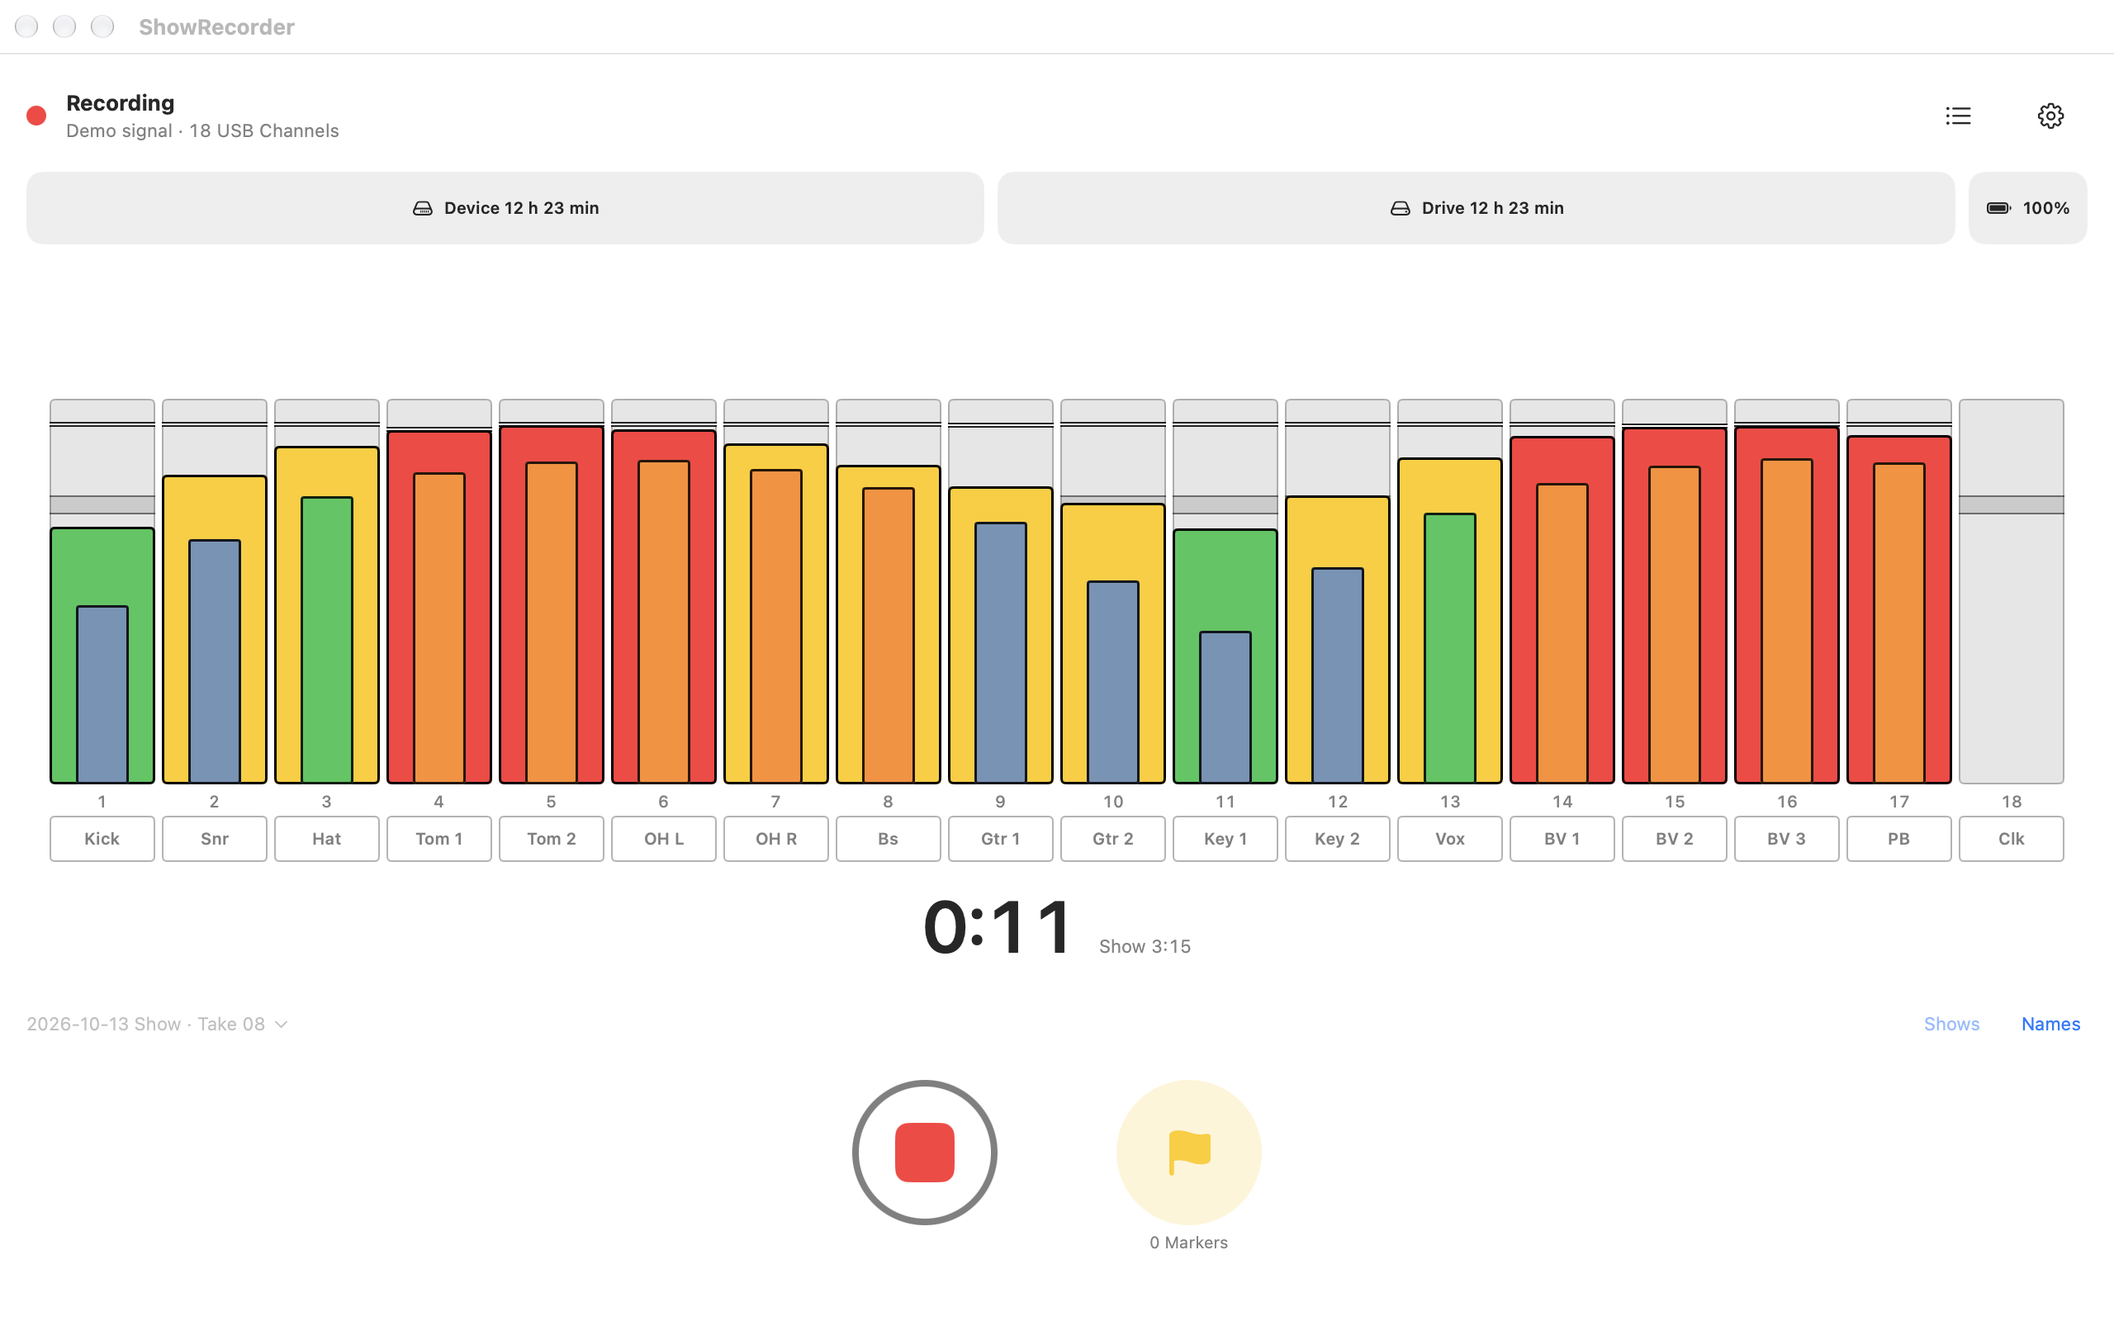
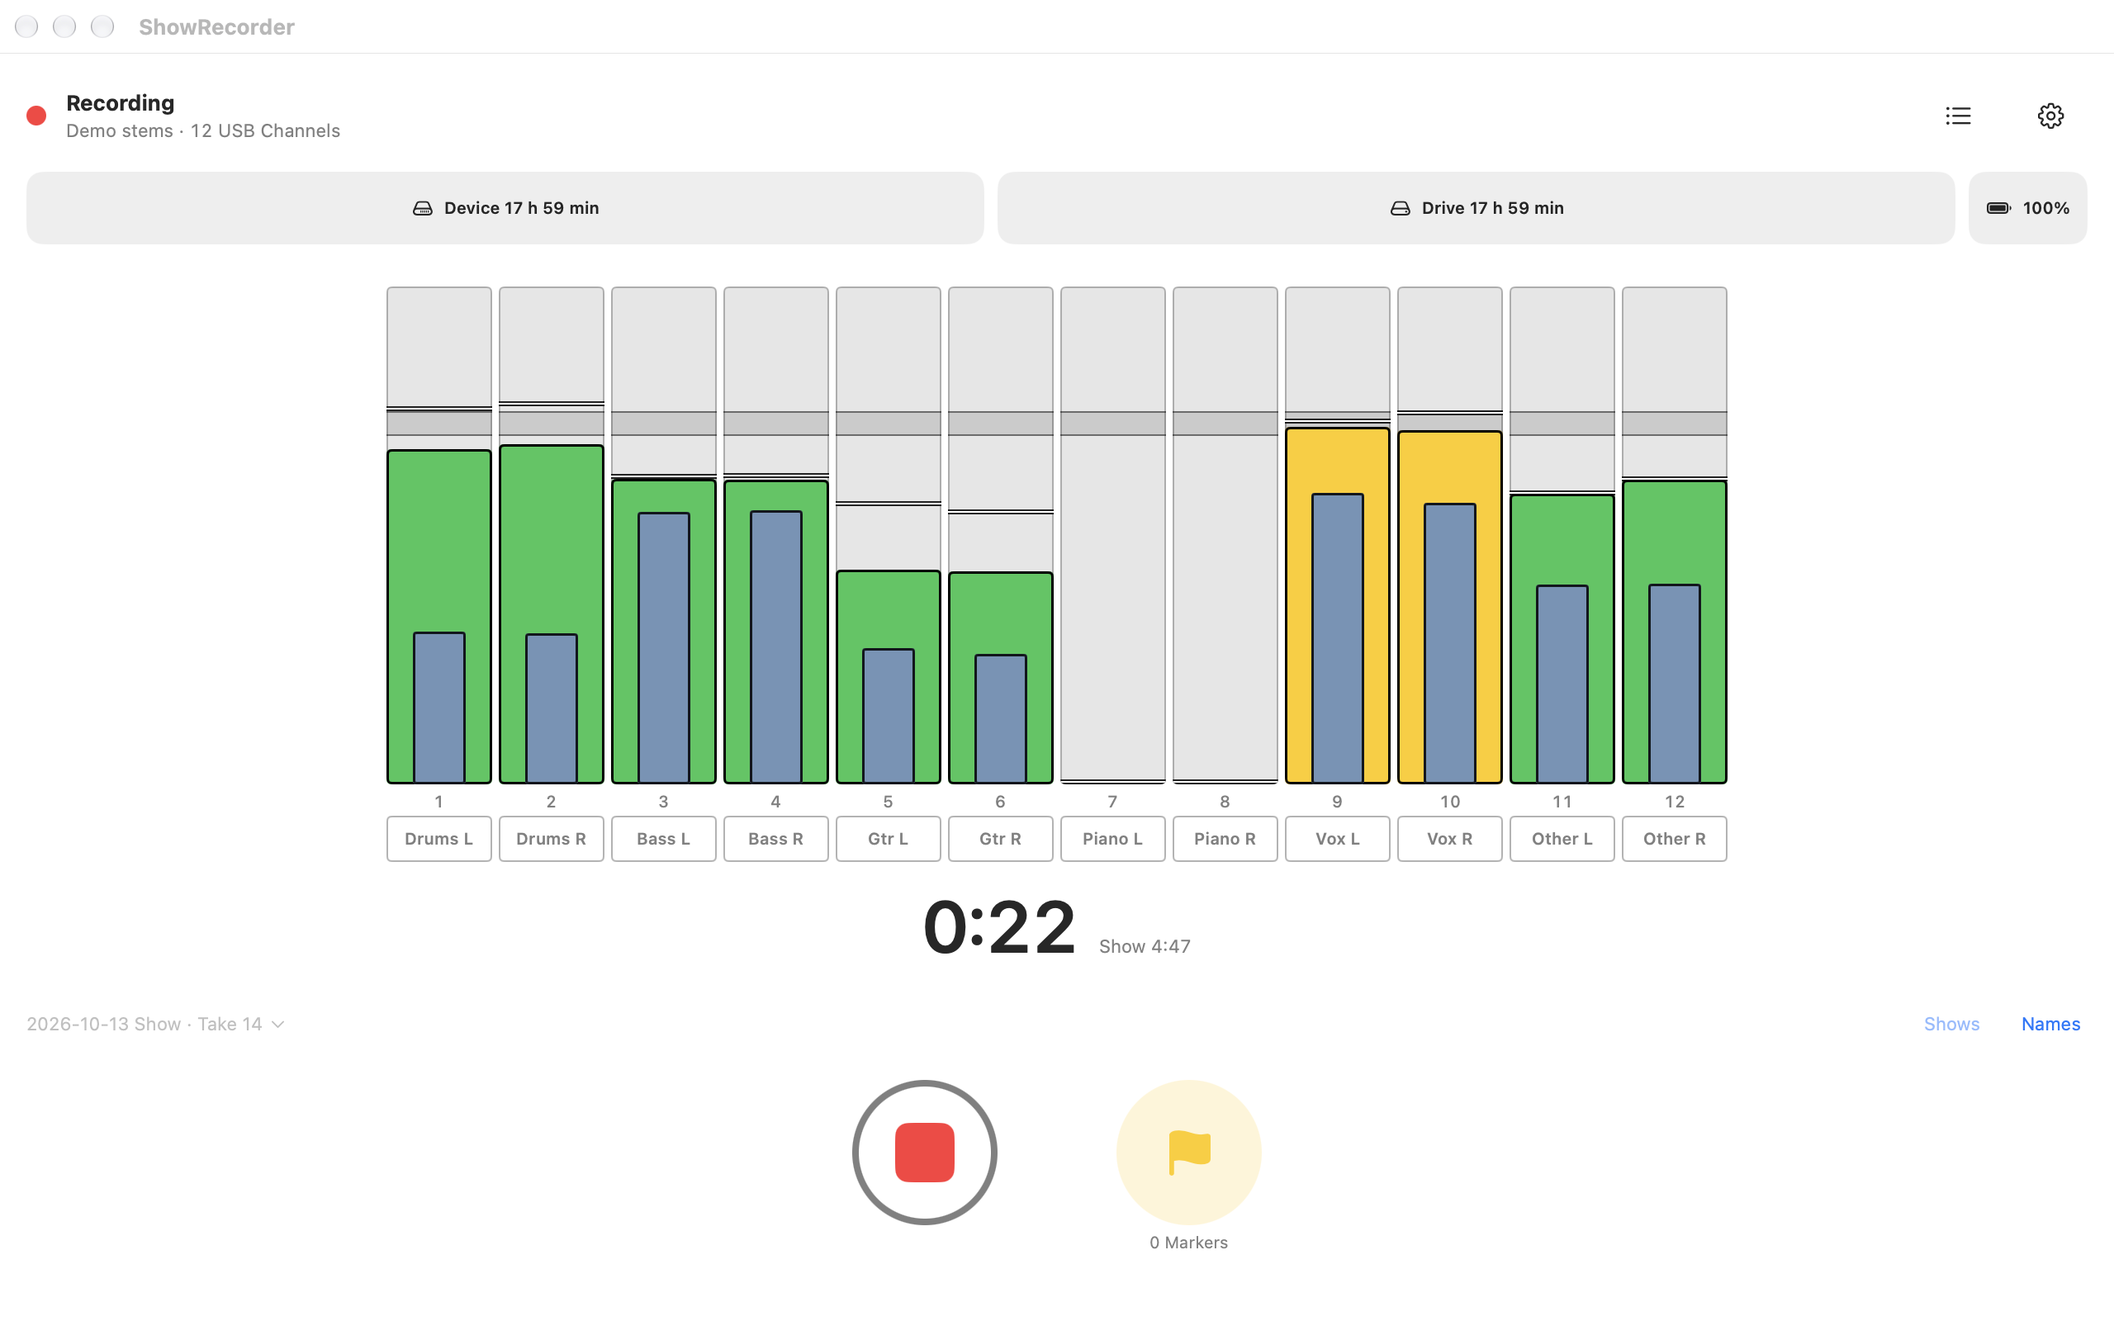
Mac App Store screenshots from a band's stems, 12 named channels (#374)
- -demoStems <folder> (Debug only, DemoStemsDevice): a folder of stems played as USB Channels, each
  stereo file on two, in a band's order and named from the file (StemDemoLayout, tested), seconds 25
  to 40 of the song resampled to 48 kHz and looped about 6 dB down, so the meters look like a mixer's.
  The audio is read from the folder given; none is in the repo.
- The five Mac shots taken again with Eric's stems: natural green and yellow levels, the piano pair
  idle, no empty alert band. Each was checked to show "Demo stems".
- -demoRecord records only on a demo input; -demoNames uses the stems' names; -demoCalm is gone.
- listing.md "Mac set": how to take them again.

Assisted-by: Claude Code:claude-opus-5-5
Claude-Session: https://claude.ai/code/session_01YSHtEHRvQvHpyXAjjbcmVq

diff --git a/App/DemoStemsDevice.swift b/App/DemoStemsDevice.swift
@@ -1,0 +1,105 @@
+#if DEBUG
+import AVFoundation
+import AudioIO
+import Foundation
+import Recording
+
+/// A folder of stems played as USB Channels, for screenshots (#374): `-demoStems <folder>`, Debug only. Each stereo
+/// file is two channels, in a band's order (`StemDemoLayout`), resampled to 48 kHz and looped, so the meters move like
+/// a real mixer's. The files are read from the folder given; none are part of the app.
+final class DemoStemsDevice: AudioIODevice, @unchecked Sendable {
+    /// The folder `-demoStems` names, if any.
+    static var folder: URL? {
+        let arguments = CommandLine.arguments
+        guard launchFlag("-demoStems"), let index = arguments.firstIndex(of: "-demoStems"), index + 1 < arguments.count else { return nil }
+        return URL(fileURLWithPath: arguments[index + 1], isDirectory: true)
+    }
+
+    /// The stems in the folder, in channel order; nil when there's no folder or no WAV in it.
+    static func layout(of folder: URL) -> StemDemoLayout? {
+        let files = ((try? FileManager.default.contentsOfDirectory(atPath: folder.path)) ?? [])
+            .filter { $0.lowercased().hasSuffix(".wav") }
+            .compactMap { name -> (String, Int)? in
+                guard let file = try? AVAudioFile(forReading: folder.appending(path: name)) else { return nil }
+                return (name, Int(file.processingFormat.channelCount))
+            }
+        return files.isEmpty ? nil : StemDemoLayout(files: files)
+    }
+
+    /// Mastered stems peak near full scale; a mixer's USB sends sit lower, so the meters show mostly green and yellow.
+    static let trim: Float = 0.5
+    /// Where in the song the loop starts (the intro leaves some stems silent), and how long it plays before it loops.
+    static let startSeconds = 25.0
+    static let seconds = 15.0
+
+    let name = "Demo stems"
+    let sampleRate = 48_000.0
+    let inputChannelCount: Int
+    var outputChannelCount: Int { inputChannelCount }
+
+    private let channels: [[Float]]
+    private let fake: FakeAudioDevice
+    private var task: Task<Void, Never>?
+
+    init(folder: URL, layout: StemDemoLayout) {
+        var channels: [[Float]] = []
+        for stem in layout.order {
+            channels += Self.read(folder.appending(path: stem.file), channels: stem.channels)
+        }
+        self.channels = channels
+        inputChannelCount = channels.count
+        fake = FakeAudioDevice(inputChannelCount: channels.count)
+    }
+
+    /// The file's channels at 48 kHz, trimmed, up to `seconds` long; silence when it can't be read.
+    private static func read(_ url: URL, channels count: Int) -> [[Float]] {
+        let frames = Int(48_000 * seconds)
+        let silence = Array(repeating: [Float](repeating: 0, count: 4_800), count: count)
+        guard let file = try? AVAudioFile(forReading: url),
+              let target = AVAudioFormat(standardFormatWithSampleRate: 48_000, channels: AVAudioChannelCount(count)),
+              let converter = AVAudioConverter(from: file.processingFormat, to: target),
+              let output = AVAudioPCMBuffer(pcmFormat: target, frameCapacity: AVAudioFrameCount(frames))
+        else { return silence }
+        file.framePosition = min(AVAudioFramePosition(startSeconds * file.processingFormat.sampleRate), max(file.length - 1, 0))
+        let input = AVAudioPCMBuffer(pcmFormat: file.processingFormat, frameCapacity: 8_192)!
+        var done = false
+        _ = converter.convert(to: output, error: nil) { _, status in
+            guard !done, (try? file.read(into: input)) != nil, input.frameLength > 0 else {
+                done = true
+                status.pointee = .endOfStream
+                return nil
+            }
+            status.pointee = .haveData
+            return input
+        }
+        guard let data = output.floatChannelData, output.frameLength > 0 else { return silence }
+        return (0..<count).map { channel in
+            Array(UnsafeBufferPointer(start: data[channel], count: Int(output.frameLength))).map { $0 * trim }
+        }
+    }
+
+    func start(input: @escaping AudioInputHandler) throws {
+        stop()
+        try fake.start(input: input)
+        let fake = fake
+        let channels = channels
+        task = Task.detached(priority: .userInitiated) {
+            let length = channels.first?.count ?? 0
+            guard length > 480 else { return }
+            var position = 0
+            while !Task.isCancelled {
+                if position + 480 > length { position = 0 }
+                fake.deliver(channels.map { Array($0[position..<(position + 480)]) })
+                position += 480
+                try? await Task.sleep(for: .milliseconds(10))
+            }
+        }
+    }
+
+    func stop() {
+        task?.cancel()
+        task = nil
+        fake.stop()
+    }
+}
+#endif

diff --git a/App/RecordScreen.swift b/App/RecordScreen.swift
@@ -976,6 +976,7 @@ final class RecordScreenModel {
         #endif
         // `-demoSignal` starts on the 18-channel demo signal, for screenshots and layout checks.
         if launchFlag("-demoSignal"), devices.contains(where: { $0.id == "demo" }) { selectedDeviceID = "demo" }
+        if launchFlag("-demoStems"), devices.contains(where: { $0.id == "demo-stems" }) { selectedDeviceID = "demo-stems" }
     }
 
     /// "2026-10-06 Show · Take 02", or a hint before the first Take.
@@ -1279,7 +1280,11 @@ final class RecordScreenModel {
         if launchFlag("-demoNames"), isScreenshotBuild {
             Task {
                 try? await Task.sleep(for: .seconds(1))
-                for (index, name) in Self.demoChannelNames.enumerated() { recorder.setChannelName(name, forChannel: index + 1) }
+                var names = Self.demoChannelNames
+                #if DEBUG
+                if let folder = DemoStemsDevice.folder, let layout = DemoStemsDevice.layout(of: folder) { names = layout.channelNames }
+                #endif
+                for (index, name) in names.enumerated() { recorder.setChannelName(name, forChannel: index + 1) }
             }
         }
         // `-demoRecord` starts a Take once Armed, for screenshots. With `-demoSignal` only on the Demo signal, never the
@@ -1289,7 +1294,7 @@ final class RecordScreenModel {
                 for _ in 0..<60 {
                     try? await Task.sleep(for: .milliseconds(500))
                     guard recorder.isArmed, !recorder.isRecording else { continue }
-                    if launchFlag("-demoSignal"), armedDevice?.id != "demo" { continue }
+                    if launchFlag("-demoSignal") || launchFlag("-demoStems"), armedDevice?.id.hasPrefix("demo") != true { continue }
                     record()
                     return
                 }
@@ -1531,6 +1536,15 @@ final class RecordScreenModel {
                 name: "Demo signal (\(DemoAudioDevice.channelCount) channels)",
                 make: { _, _ in DemoAudioDevice() }))
         }
+        #if DEBUG
+        // `-demoStems <folder>` (Debug): a folder of stems as USB Channels, for screenshots (#374).
+        if let folder = DemoStemsDevice.folder, let layout = DemoStemsDevice.layout(of: folder) {
+            choices.append(DeviceChoice(
+                info: InputDeviceInfo(id: "demo-stems", name: "Demo stems", inputChannelCount: layout.channelCount, sampleRate: 48_000),
+                name: "Demo stems (\(layout.channelCount) channels)",
+                make: { _, _ in DemoStemsDevice(folder: folder, layout: layout) }))
+        }
+        #endif
         // The screenshot build offers only demo inputs (#374).
         return DemoOnlyInputSource.isScreenshotBuild() ? DemoOnlyInputSource.onlyDemo(choices) : choices
     }

diff --git a/Packages/ShowRecorderKit/Sources/Recording/StemDemoLayout.swift b/Packages/ShowRecorderKit/Sources/Recording/StemDemoLayout.swift
@@ -1,0 +1,54 @@
+import Foundation
+
+/// A folder of stems played as USB Channels, for screenshots (#374): the files in a band's channel order, each stereo
+/// file on two channels, named from the file without the prefix the files share ("…_drums.wav" is "Drums L" and
+/// "Drums R"). The audio itself is the app's (Debug and the screenshot build only).
+public struct StemDemoLayout: Equatable, Sendable {
+    public struct Stem: Equatable, Sendable {
+        public var file: String
+        public var channels: Int
+        /// "Drums", "Gtr", "Vox": the name its channels carry.
+        public var name: String
+    }
+
+    /// The stems in channel order.
+    public let order: [Stem]
+
+    /// The usual order of a band's input list; anything else follows, in name order.
+    static let bandOrder = ["drums", "kick", "snare", "bass", "guitar", "piano", "keys", "vocals", "vox"]
+    /// Short names as a mixer's scribble strip has them.
+    static let shortNames = ["guitar": "Gtr", "vocals": "Vox"]
+
+    /// - Parameter files: each file's name and channel count.
+    public init(files: [(name: String, channels: Int)]) {
+        let bases = files.map { ($0.name as NSString).deletingPathExtension }
+        let prefix = Self.sharedPrefix(bases)
+        let stems = zip(files, bases).map { file, base -> Stem in
+            let instrument = String(base.dropFirst(prefix.count)).lowercased()
+            let name = Self.shortNames[instrument] ?? instrument.prefix(1).uppercased() + instrument.dropFirst()
+            return Stem(file: file.name, channels: file.channels, name: name)
+        }
+        func rank(_ stem: Stem) -> Int {
+            let key = String((stem.file as NSString).deletingPathExtension.dropFirst(prefix.count)).lowercased()
+            return Self.bandOrder.firstIndex(of: key) ?? Self.bandOrder.count
+        }
+        order = stems.sorted { (rank($0), $0.name) < (rank($1), $1.name) }
+    }
+
+    /// One name per USB Channel.
+    public var channelNames: [String] {
+        order.flatMap { $0.channels == 2 ? ["\($0.name) L", "\($0.name) R"] : Array(repeating: $0.name, count: $0.channels) }
+    }
+
+    public var channelCount: Int { order.reduce(0) { $0 + $1.channels } }
+
+    /// The prefix all the names share, cut back to the last "_", "-" or " ", so "…_drums" and "…_bass" share "…_".
+    static func sharedPrefix(_ names: [String]) -> String {
+        guard names.count > 1, var prefix = names.first else { return "" }
+        for name in names.dropFirst() {
+            while !name.hasPrefix(prefix) { prefix.removeLast() }
+        }
+        guard let cut = prefix.lastIndex(where: { "_- ".contains($0) }) else { return "" }
+        return String(prefix[...cut])
+    }
+}

diff --git a/App/DemoAudioDevice.swift b/App/DemoAudioDevice.swift
@@ -26,9 +26,6 @@ final class DemoAudioDevice: AudioIODevice, @unchecked Sendable {
             let overflows = launchFlag("-demoDropout")
             // `-demoClip`: every 3 s, one full-scale sample on channel 3, so the clip mark can be checked.
             let clips = launchFlag("-demoClip")
-            // `-demoCalm` (screenshots): levels a mixed band would show, mostly green and yellow (peaks to about
-            // -12 dBFS), with one hot channel (channel 2) near -4 dBFS.
-            let calm = launchFlag("-demoCalm")
             var blocks = 0
             while !Task.isCancelled {
                 phase += 0.05
@@ -36,9 +33,7 @@ final class DemoAudioDevice: AudioIODevice, @unchecked Sendable {
                 if overflows, blocks % 1_500 == 0 { fake.deliver(Array(repeating: Array(repeating: 0, count: 250_000), count: count)) }
                 let channels = (0..<count).map { channel -> [Float] in
                     // The last channel stays silent, so the meters show an unused USB Channel.
-                    let swing = sin(phase + Double(channel) * 0.6)
-                    let loud = calm ? (channel == 1 ? 0.6 : 0.03 + 0.11 * (1 + swing)) : 0.02 + 0.3 * (1 + swing)
-                    let level = Float(loud) * (channel == count - 1 ? 0 : 1)
+                    let level = Float(0.02 + 0.3 * (1 + sin(phase + Double(channel) * 0.6))) * (channel == count - 1 ? 0 : 1)
                     return (0..<480).map { _ in Float.random(in: -level...level) }
                 }
                 var delivered = channels

diff --git a/Packages/ShowRecorderKit/Tests/RecordingTests/StemDemoLayoutTests.swift b/Packages/ShowRecorderKit/Tests/RecordingTests/StemDemoLayoutTests.swift
@@ -1,0 +1,22 @@
+@testable import Recording
+import Testing
+
+/// A folder of stems played as USB Channels for screenshots (#374): which file goes on which channel, and its name.
+@Suite("Stem demo layout")
+struct StemDemoLayoutTests {
+    @Test("Six stereo stems become twelve channels in a band's order, named from the file without the shared prefix")
+    func bandOrder() {
+        let files = ["bass", "drums", "guitar", "other", "piano", "vocals"].map { ("High_Speed_Run_Ethereal_Drift_\($0).wav", 2) }
+
+        let layout = StemDemoLayout(files: files)
+
+        #expect(layout.channelNames == ["Drums L", "Drums R", "Bass L", "Bass R", "Gtr L", "Gtr R", "Piano L", "Piano R",
+                                        "Vox L", "Vox R", "Other L", "Other R"])
+        #expect(layout.order.map(\.file).first == "High_Speed_Run_Ethereal_Drift_drums.wav")
+    }
+
+    @Test("A mono stem is one channel with its plain name")
+    func mono() {
+        #expect(StemDemoLayout(files: [("kick.wav", 1), ("snare.wav", 1)]).channelNames == ["Kick", "Snare"])
+    }
+}

diff --git a/docs/app-store/listing.md b/docs/app-store/listing.md
@@ -121,16 +121,21 @@ First release.
 
 ### Mac set (taken 2026-10-13, #374)
 
-In [`docs/images/app-store-mac/`](../images/app-store-mac/), 2560 × 1600 each, Demo signal with typed band names (no people's names), a Drive set:
+In [`docs/images/app-store-mac/`](../images/app-store-mac/), 2560 × 1600 each: a band's stems played as 12 USB Channels (Drums, Bass, Gtr, Piano, Vox, Other, left and right), named from the files, with a Drive set:
 
-1. `mac-01-recording-light.png`: Every channel, its own file (a Take, 18 named meters)
+1. `mac-01-recording-light.png`: Every channel, its own file (a Take, 12 named meters)
 2. `mac-02-recording-dark.png`: the same in Dark
 3. `mac-03-shows-light.png` and `mac-04-shows-dark.png`: the Show list
 4. `mac-05-sunlight.png`: Sunlight for bright stages
 
-The Demo signal runs hot, so several meters read red: honest for what it is, but a real mixer's levels look calmer. A Mixer Link shot needs an X Air or X32 on this Mac's USB.
+The piano stem is silent in the part that loops, so its pair reads as an unused input. A Mixer Link shot waits for an X Air or X32 on this Mac's USB.
 
-To take them again: a Debug build with its own bundle ID, so its container is empty and the real app's Shows are untouched (`xcodebuild … PRODUCT_BUNDLE_IDENTIFIER=dev.ericdahl.ShowRecorder.screens`), launched with `-demoSignal -demoNames -demoDrive -demoRecord -screenshotWindow`, plus `-lightScheme` for the light set or `-showList` for the list; Sunlight is the appearance setting in that container's preferences. `-demoDrive` and `-demoNames` act only in a build whose bundle ID ends in `.screens`. `-screenshotWindow` makes a 1280 × 800 window on a Retina screen (2560 × 1600); 2880 × 1800 would need its size changed in `ShowRecorderApp.swift` and a screen with at least 900 points of usable height. Capture the window alone with `screencapture -o -l<window id>`.
+To take them again:
+- Build Debug under its own bundle ID, `xcodebuild … PRODUCT_BUNDLE_IDENTIFIER=dev.ericdahl.ShowRecorder.screens`. Its container is empty, the real app's Shows are untouched, and it Arms only demo inputs (`DemoOnlyInputSource`), never a microphone or USB interface.
+- Copy a folder of stems into its container (it is sandboxed), for example `~/Library/Containers/dev.ericdahl.ShowRecorder.screens/Data/tmp/demo-stems`. Never commit the audio.
+- Launch it with `-demoStems <that folder> -demoNames -demoDrive -demoRecord -screenshotWindow`, plus `-lightScheme` for the light set or `-showList` for the list. Sunlight is the appearance setting in that container's preferences.
+- `-demoStems` plays seconds 25 to 40 of each stem at 48 kHz, looped, about 6 dB down. `-screenshotWindow` makes a 1280 × 800 window on a Retina screen (2560 × 1600) and leaves out the empty alert slot. 2880 × 1800 would need its size changed in `ShowRecorderApp.swift` and a screen with at least 900 points of usable height.
+- Capture the window alone with `screencapture -o -l<window id>`.
 
 ## Decided (Eric, 2026-10-11)
 
